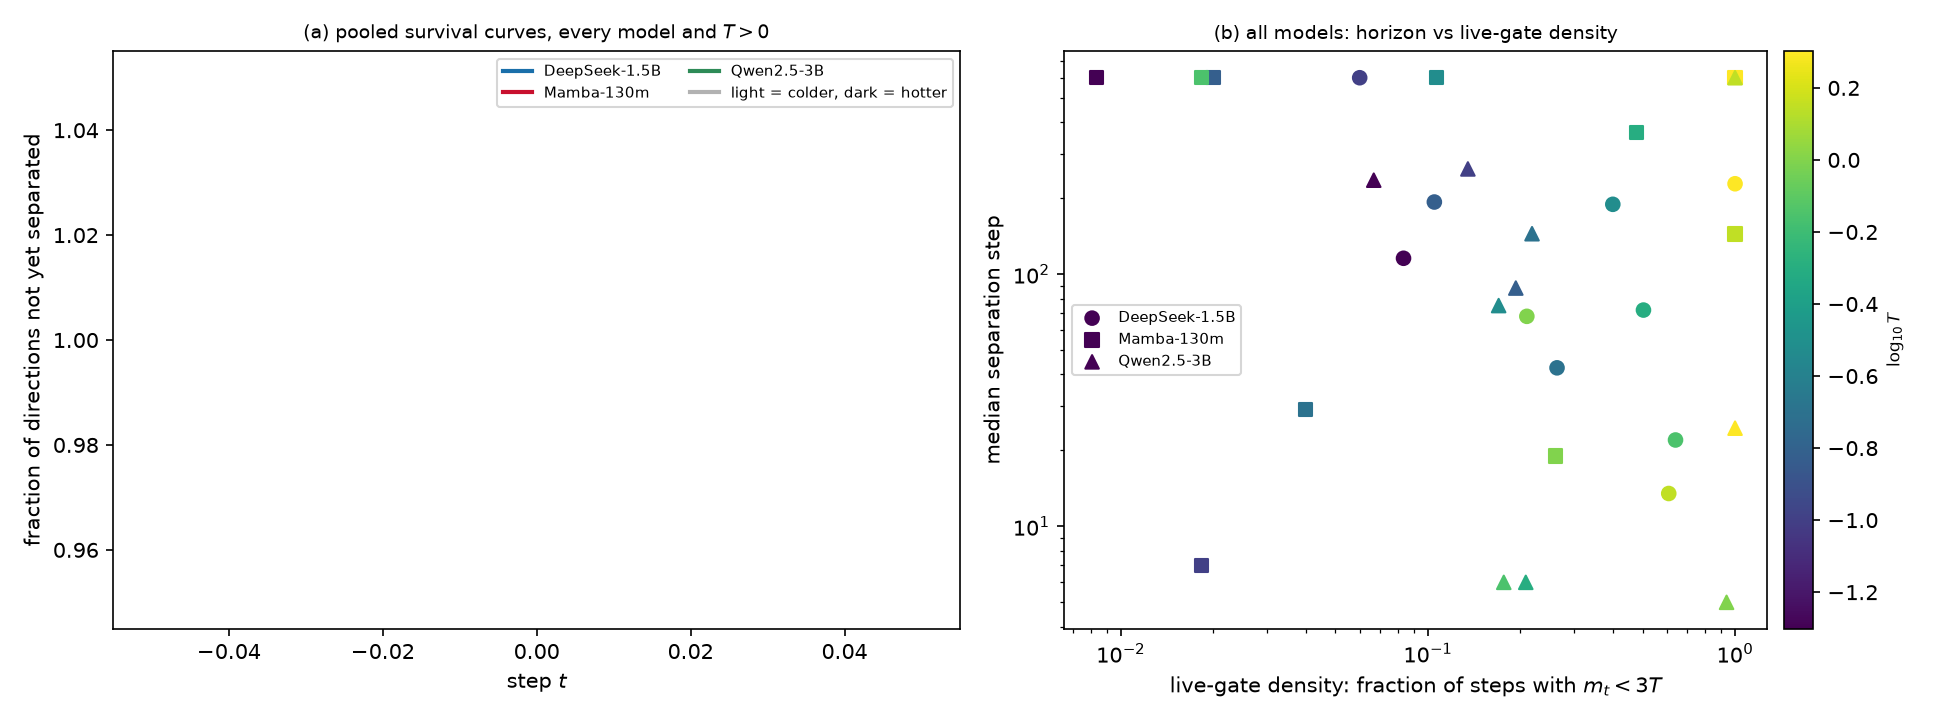
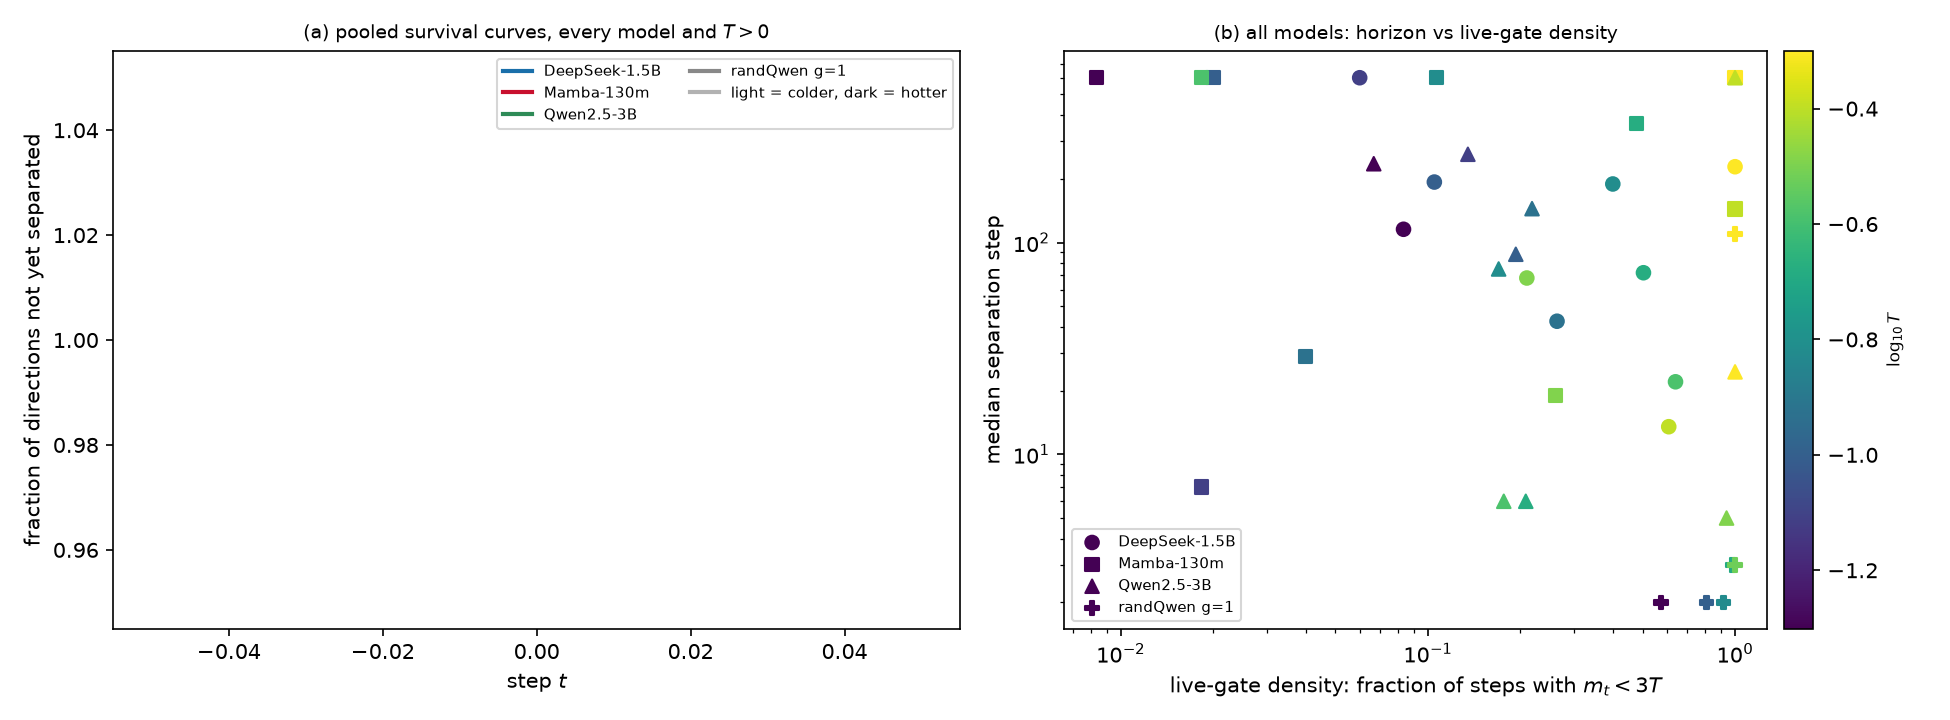
Horizon-vs-live-density cross-model figure; fast deflated SV estimator; new.md updates

diff --git a/scripts/softloop_figs2.py b/scripts/softloop_figs2.py
@@ -466,8 +466,11 @@ def fig_gate_law_per_model(out='sl2_gate_law_per_model.png'):
         for d in sorted(glob.glob(os.path.join(g, 'T*'))):
             if not os.path.isdir(d):
                 continue
+            f = os.path.join(d, 'softloop.npz')
+            if not os.path.exists(f):
+                continue
             T = float(os.path.basename(d)[1:])
-            z = np.load(os.path.join(d, 'softloop.npz'))
+            z = np.load(f)
             m = z['m_ref'].astype(np.float64)
             s = z['sig_read'].astype(np.float64)
             act = s > 0
@@ -543,6 +546,69 @@ def fig_twonn(out='sl2_twonn_vs_T.png'):
     plt.close(fig)
 
 
+# ------------------------------------------- F8: horizon vs live-gate density
+
+def fig_horizon_density(groups, out='sl2_horizon_vs_density.png'):
+    """Every model x temperature: median separation step against the
+    live-gate density of ITS OWN orbit margins (measured) and against the
+    A1-corpus predicted density (no loop run)."""
+    fig, axes = plt.subplots(1, 2, figsize=(13.5, 4.8))
+    mks = {'ds15v2': 'o', 'mamba130': 's', 'qwen25_3b': '^', 'randqwen': 'P',
+           'pythia410': 'X', 'qwen3_4b': 'D', 'phi4mini': 'v', 'qwen3_5': 'p',
+           'qwen35_9b': '*'}
+    # A1-corpus predicted density per model (from sl2_gates_table.json + T)
+    tabp = os.path.join(OUT, 'sl2_gates_table.json')
+    pred = {}
+    if os.path.exists(tabp):
+        tab = json.load(open(tabp))
+        # we need the full margin ECDF; approximate from stored percentiles is
+        # not enough -> recompute from the gates files
+        for k in tab:
+            path = os.path.join(os.path.dirname(SRC), 'softloop_gates', k)
+            if not os.path.isdir(path):
+                path = os.path.join(os.path.dirname(SRC), '..', 'results_big',
+                                    k, 'softloop_gates')
+            fs = glob.glob(os.path.join(path, '*', 'gates.npz'))
+            if fs:
+                ms = np.concatenate([np.load(f)['m'] for f in fs])
+                pred[k] = ms
+    used = []
+    for g in groups:
+        for T, z in sorted(all_runs(g).items()):
+            if T < 1e-6:
+                continue
+            m = z['m_ref'].astype(np.float64)
+            dens = float((m < 3 * T).mean())
+            ts, _ = tsat_all(z)
+            S = z['dh'].shape[1]
+            ok = ts < S
+            med = np.median(ts[ok]) if ok.any() else S
+            col = MCOL.get(g, '#333')
+            axes[0].scatter(dens, med, s=60, marker=mks.get(g, 'o'), color=col,
+                            zorder=3, label=MLABEL.get(g, g) if g not in used else None)
+            # predicted density from the A1 corpus (if available for this model)
+            key = g.replace('v2', '')
+            if key in pred and T in [0.05, 0.1, 0.2, 0.3, 0.5, 1.0]:
+                dpred = float((pred[key] < 3 * T).mean())
+                axes[1].scatter(dpred, med, s=60, marker=mks.get(g, 'o'),
+                                color=col, zorder=3)
+        used.append(g)
+    for ax, ttl in [(axes[0], '(a) horizon vs live-gate density of the '
+                                 'loop\'s own orbit'),
+                    (axes[1], '(b) horizon vs the density predicted from the '
+                              'greedy A1 corpora (one pass, no loop)')]:
+        ax.set_xscale('log')
+        ax.set_yscale('log')
+        ax.set_xlabel('fraction of steps with $m_t < 3T$')
+        ax.set_ylabel('median separation step')
+        ax.set_title(ttl, fontsize=9)
+        ax.axhline(600, color='gray', ls=':', lw=0.9)
+    axes[0].legend(fontsize=7)
+    fig.tight_layout()
+    fig.savefig(os.path.join(OUT, out), dpi=150)
+    plt.close(fig)
+
+
 def main():
     ap = argparse.ArgumentParser()
     ap.add_argument('--groups', default='ds15v2,mamba130,qwen25_3b')
@@ -554,6 +620,7 @@ def main():
     fig_phase('ds15v2')
     if groups:
         fig_survival_pooled(groups)
+        fig_horizon_density(groups)
     fig_sampling()
     fig_gate_law_per_model()
     fig_twonn()

diff --git a/src/chaos_llm/run_softloop.py b/src/chaos_llm/run_softloop.py
@@ -55,7 +55,7 @@ def sparse_simplex(k, total, seed):
     return idx, v
 
 
-def topk_crosscov_sigma(p, E, W, k=64, iters=30, return_M=False):
+def topk_crosscov_sigma(p, E, W, k=64, iters=30, return_M=False, sv_out=0):
     """sigma_max of sum_v p_v (E_v - ebar)(W_v - wbar)^T restricted to the
     top-k mass tokens (covers > 1-1e-6 of the distribution in practice).
     Clean power iteration on M^T M (fp32 accumulation, no big intermediate)."""
@@ -73,16 +73,40 @@ def topk_crosscov_sigma(p, E, W, k=64, iters=30, return_M=False):
         M += pv[i] * torch.outer(e[i] - ebar, w[i] - wbar)
     v = torch.randn(M.shape[1], device=M.device)
     v = v / v.norm()
+    dead = False
     for _ in range(iters):
         u = M @ v
         un = float(u.norm())
         if un == 0.0:
-            return 0.0
+            dead = True
+            break
         v = M.T @ u
         vn = float(v.norm())
         if vn == 0.0:
-            return 0.0
+            dead = True
+            break
         v = v / vn
+    if sv_out > 0:
+        sv = torch.zeros(sv_out, dtype=torch.float32, device=M.device)
+        if not dead:
+            Wk = M
+            for j in range(sv_out):
+                vv = torch.randn(M.shape[1], device=M.device)
+                vv = vv / vv.norm()
+                for _ in range(20):
+                    uu = Wk @ vv
+                    nn = float(uu.norm())
+                    if nn == 0.0:
+                        break
+                    vv = Wk.T @ uu
+                    nv = float(vv.norm())
+                    if nv == 0.0:
+                        break
+                    vv = vv / nv
+                sv[j] = float((Wk @ vv).norm()) if float(vv.norm()) > 0 else 0.0
+                uu = Wk @ vv
+                Wk = Wk - torch.outer(uu, vv) / max(float(vv.norm() ** 2), 1e-30)
+        return (0.0 if dead else float((M @ v).norm())), sv
     if return_M:
         return float((M @ v).norm()), M
     return float((M @ v).norm())
@@ -223,12 +247,9 @@ def main():
         top1_ref[t] = int(top2.indices[0])
         top2_ref[t] = int(top2.indices[1])
         p = torch.softmax(zr / args.temp, -1)
-        sig, M = topk_crosscov_sigma(p, Emb, Wout, return_M=True)
+        sig, sv = topk_crosscov_sigma(p, Emb, Wout, sv_out=16)
         sig_read[t] = sig
-        try:
-            sv_read[:, t] = torch.linalg.svdvals(M)[:16].float().cpu().numpy()
-        except Exception:
-            sv_read[:, t] = 0.0
+        sv_read[:, t] = sv.cpu().numpy()
         cov64[t] = float(torch.topk(p, 64).values.sum())
         if args.feedback == "soft":
             e_ref[t] = (p[:, None] * Emb).sum(0).cpu().numpy()

diff --git a/notebook/new.md b/notebook/new.md
@@ -273,11 +273,30 @@ density vs $T$ per model, computed purely from each model's measured
 greedy margins (one teacher-forced pass; no loop run needed).
 (b) The margin ECDFs that generate panel (a).*
 
-**Prediction to test against the loop grids:** the horizon ordering
-across models should follow the live-gate density ordering (randQwen
-first — 42% of steps are near-ties at any $T\gtrsim0.1$; Mamba last
-among these; Qwen2.5-3B early; Qwen3-14B late). The loop grids for these
-models are running; the comparison table will close this section.
+**The prediction, tested where the loop grids have landed:**
+
+| model | live-gate density at $T=0.1$ (predicted from margins) | measured median $t_{sat}$ |
+|---|---:|---:|
+| randQwen g=1 | 38% | **2 steps (all 16 directions, every $T$, including $T\to0$)** |
+| Qwen2.5-3B | 4.1% | 261 ($r=0.1$, fp16) |
+| DeepSeek-1.5B | 1.7% (this prompt drew a confident orbit) | >600 (5/8 survived) |
+| Mamba-130m | 0.3% | >600 on confident orbits; 7–29 on orbits with a razor tie |
+
+![horizondensity](newfigures/sl2_horizon_vs_density.png)
+*Figure 5.3 — `sl2_horizon_vs_density.png`. Every model and temperature:
+median separation step against the live-gate density of its own orbit
+(a), and against the density predicted from the greedy A1 corpora alone
+(b: one teacher-forced pass per model, no loop run). Marker = model,
+points at the top edge are censored (no separation in 600 steps).*
+
+The randQwen control lands exactly where its margin landscape says it
+must: 42% of its greedy steps are near-ties, and *every* direction
+separates within 2–4 steps at every temperature — including $T\to0$,
+where the separation is pure greedy threshold crossing (the random model
+has no stable text to protect). Its network-only rate is still $\approx0$
+( $-0.001$ nats/step): even random weights do not destabilize the
+*network* part. More models land as the grids complete; the figure
+regenerates automatically.
 
 ---
 
